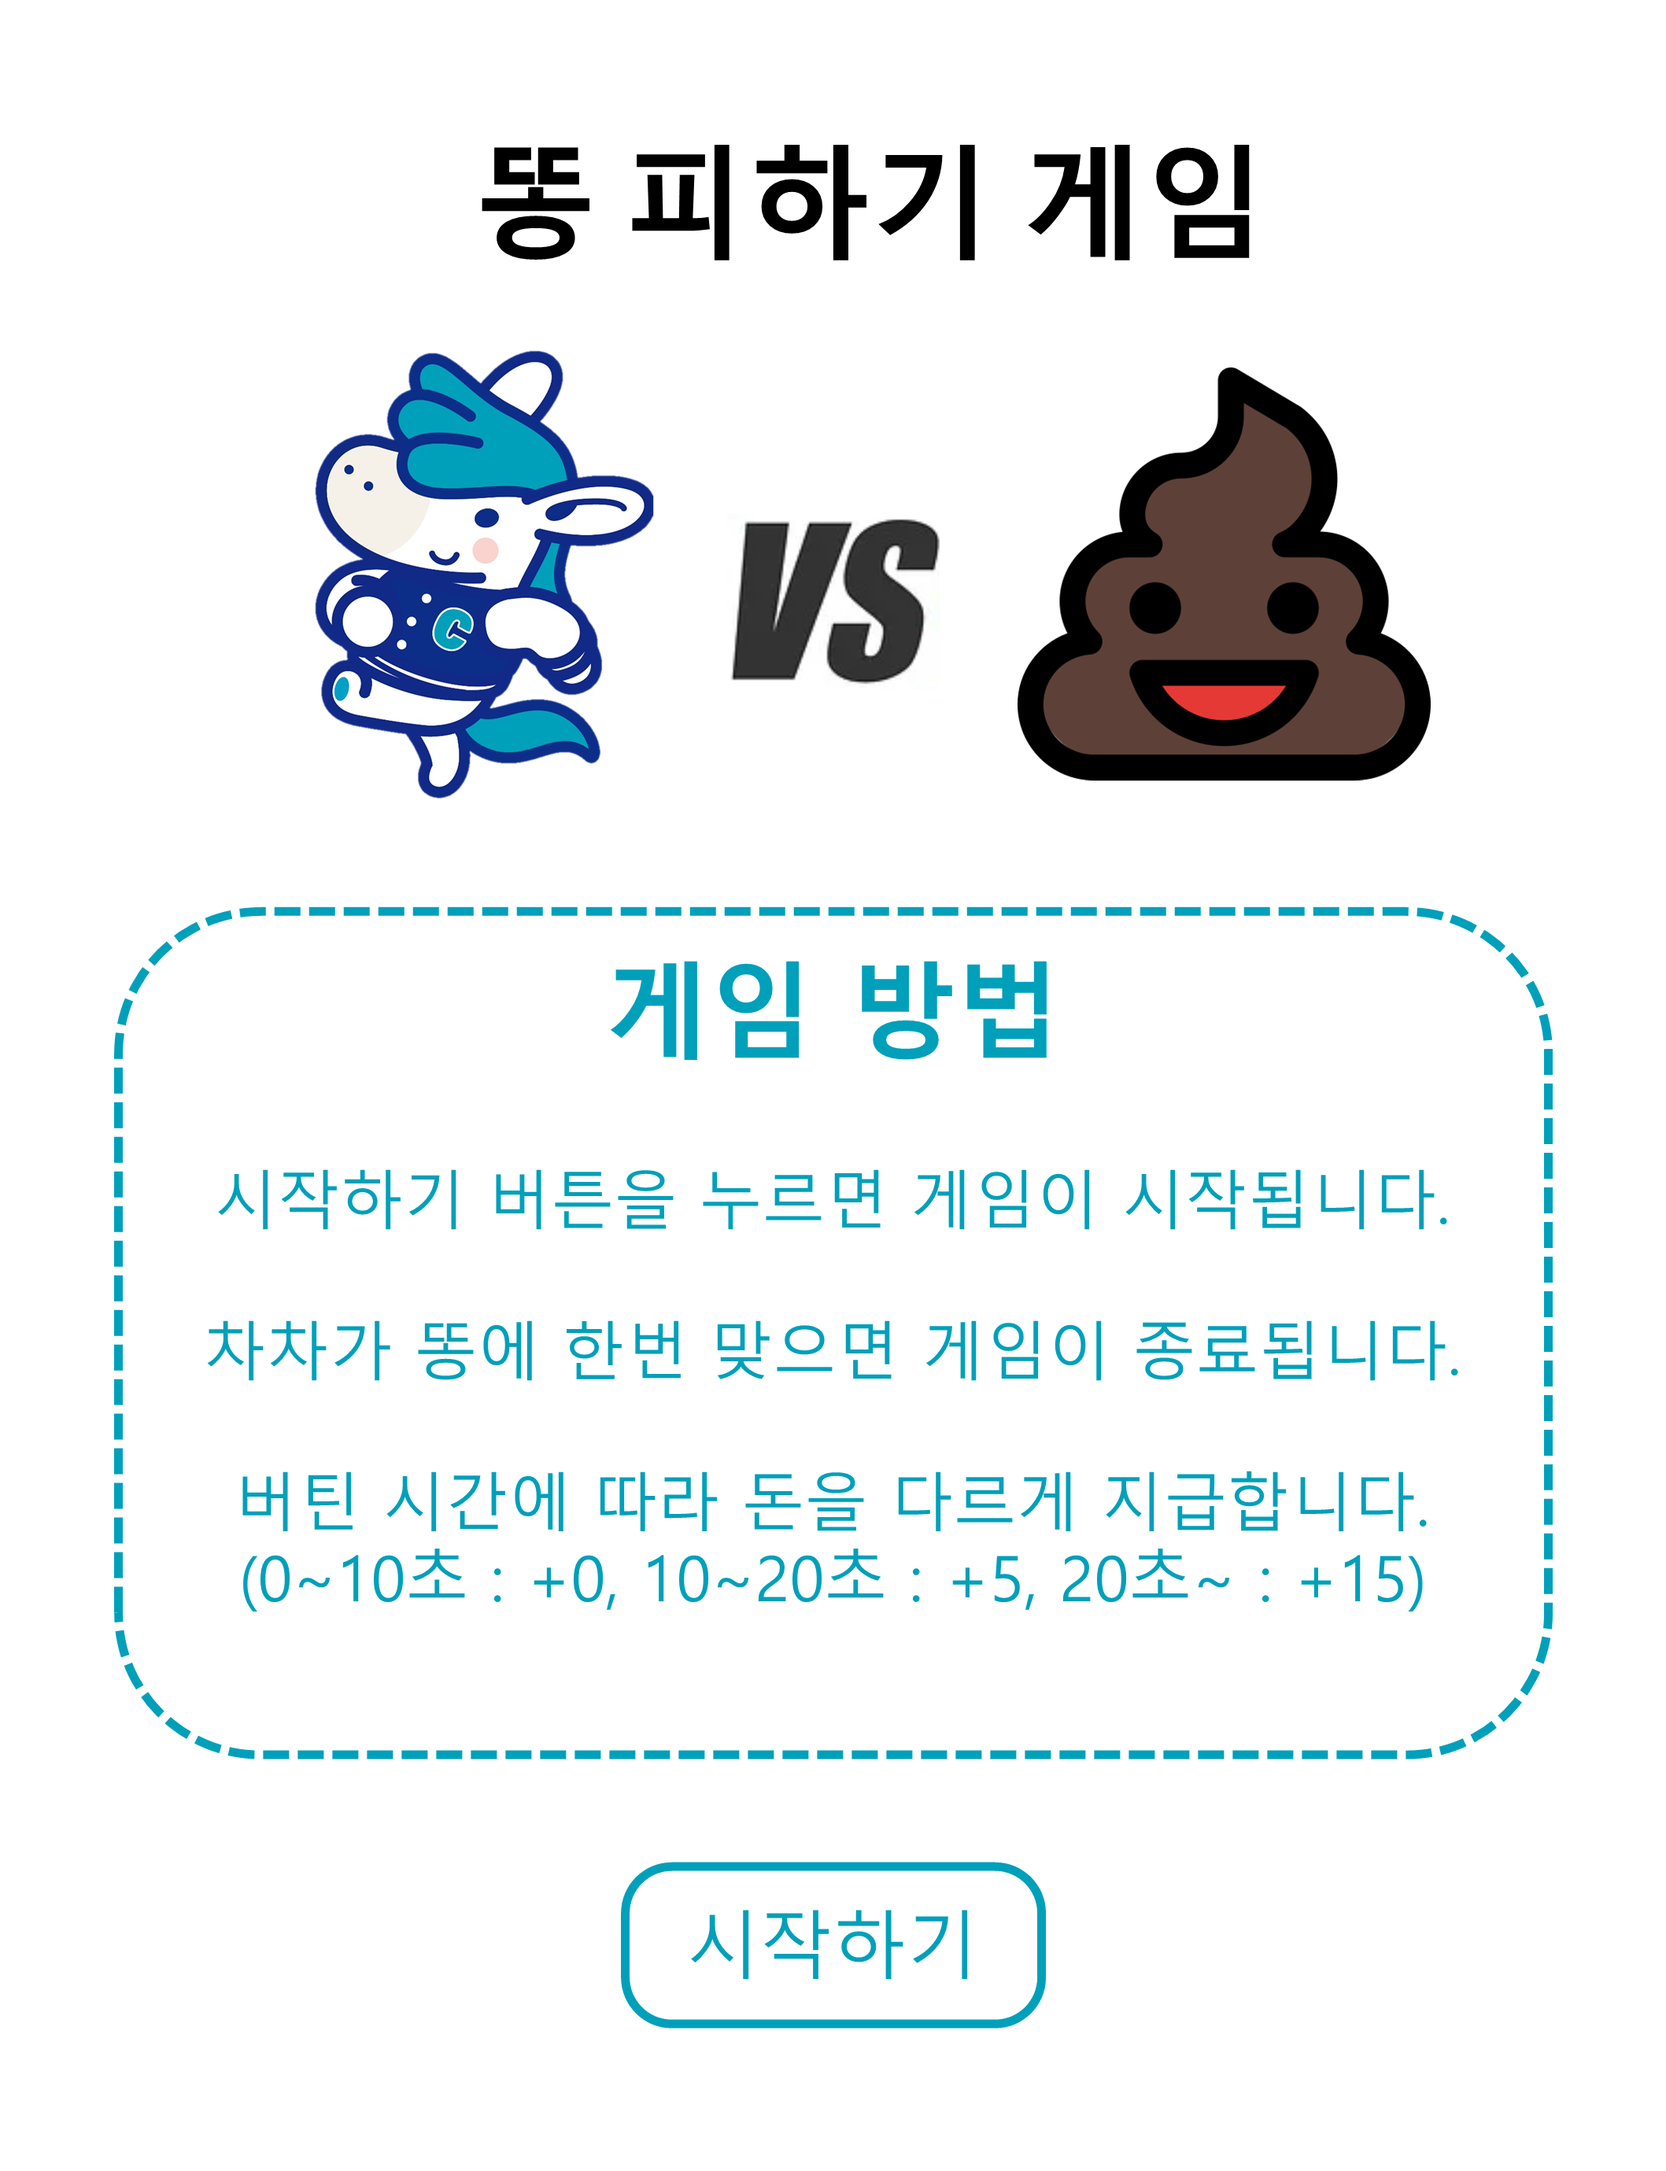
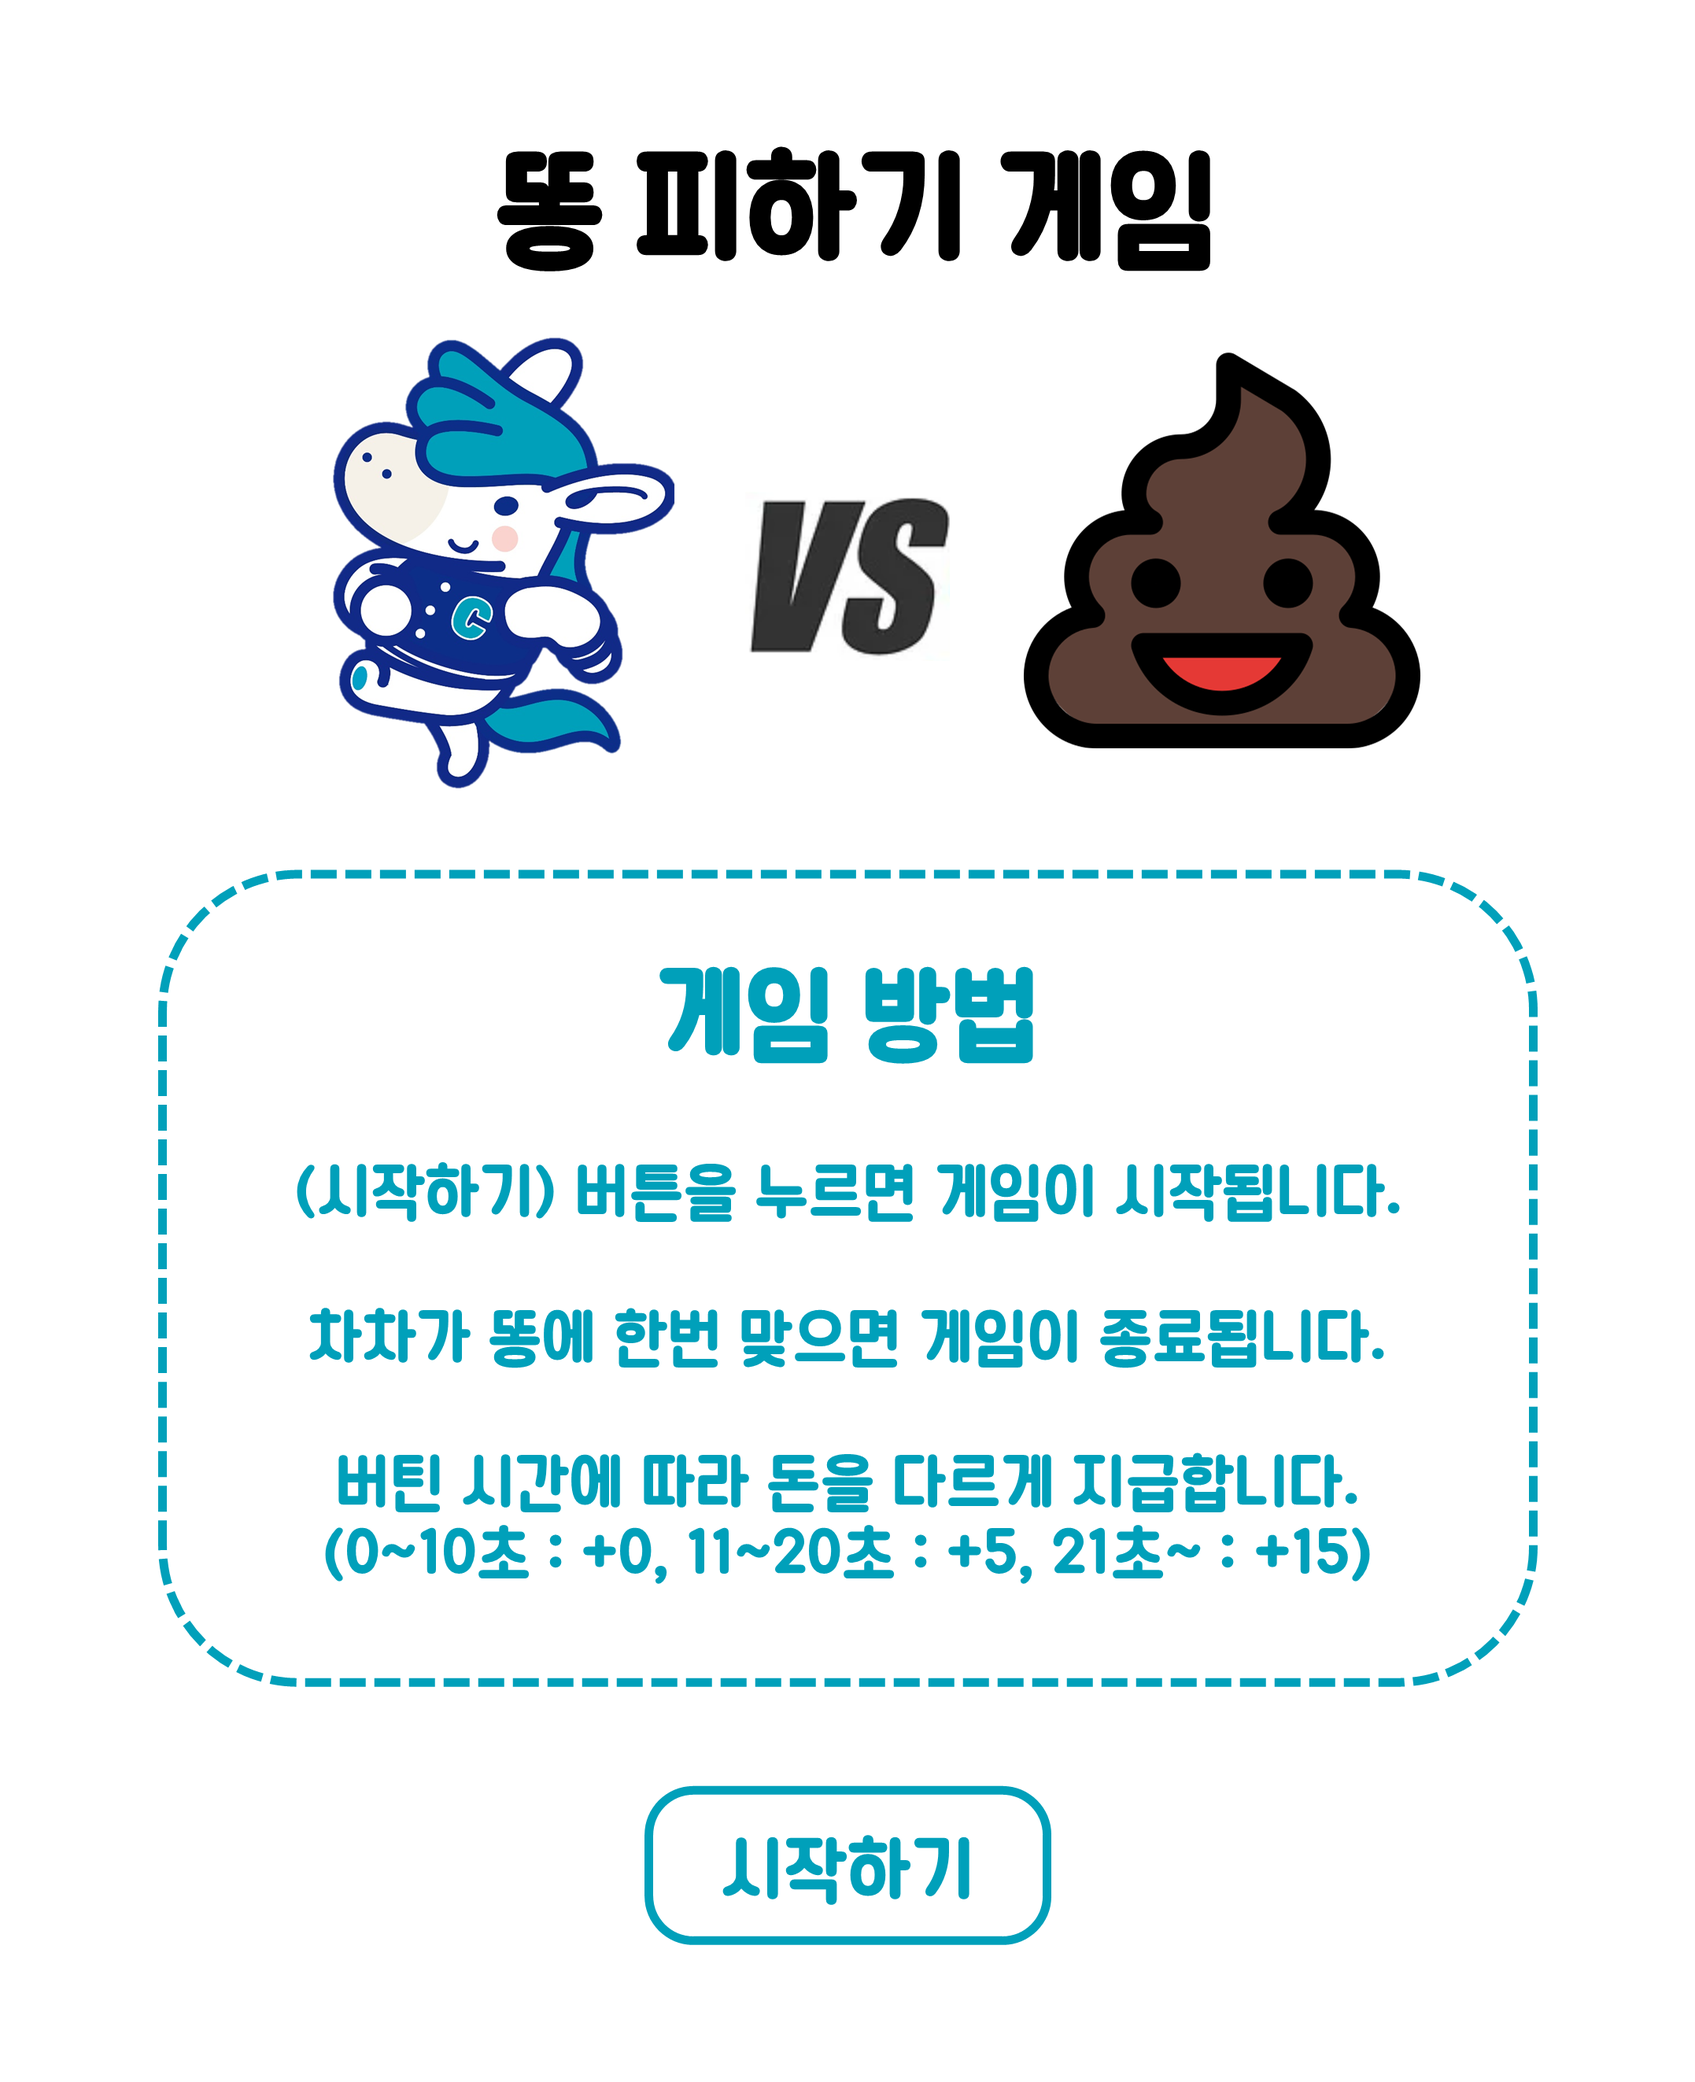
똥 피하기 게임 완성!

diff --git a/src/source/Parttime_avoidPoop.java b/src/source/Parttime_avoidPoop.java
@@ -17,14 +17,18 @@ import java.util.ArrayList;
 
 public class Parttime_avoidPoop extends JFrame {
     public static ArrayList<DroppingObject> poopList = new ArrayList<>();
+    UI UI;
     Player player;
     Avoider chacha = new Avoider();
     OnPlayingScreen playingScreen = new OnPlayingScreen(chacha);
     ProducingObject producingPoopThread = new ProducingObject(playingScreen, chacha);
-    DroppingThread droppingThread = new DroppingThread(playingScreen, chacha, player);
+    DroppingThread droppingThread;
 
-    Parttime_avoidPoop(Player player) {
-        this.player = player;
+
+    Parttime_avoidPoop(UI UI) {
+        this.UI = UI;
+        this.player = UI.getPlayer();
+        droppingThread = new DroppingThread(playingScreen, chacha, UI, player);
         setTitle("똥 피하기 게임");
         setDefaultCloseOperation(DISPOSE_ON_CLOSE);
         StartScreen startScreen = new StartScreen(this, playingScreen, producingPoopThread, droppingThread);
@@ -33,6 +37,7 @@ public class Parttime_avoidPoop extends JFrame {
         setLocationRelativeTo(null);
         setVisible(true);
     }
+
 
     // public static void main(String[] args) {
     //     new Parttime_avoidPoop();
@@ -159,16 +164,18 @@ class OnPlayingScreen extends JPanel { //플레이 화면
 class DroppingThread extends Thread {
 
 	OnPlayingScreen playingScreen;
+    UI UI;
     Player player;
 	Avoider chacha;
 	DroppingObject poopSample = new DroppingObject();
 	boolean vForCrushingCount;
     volatile boolean terminationFlag = true;
 	
-	DroppingThread(OnPlayingScreen playingScreen, Avoider chacha, Player player){
+	DroppingThread(OnPlayingScreen playingScreen, Avoider chacha, UI UI, Player player){
 		this.playingScreen = playingScreen;
 		this.chacha = chacha;
         this.player = player;
+        this.UI = UI;
 	}
 	
 	
@@ -207,8 +214,18 @@ class DroppingThread extends Thread {
 			
 		if(chacha.life ==0) {
 			long end = System.currentTimeMillis();
-            int aliveTime = (int)((end - StartScreen.start)/1000.0f); 
-	        JOptionPane.showMessageDialog(null, ""+ aliveTime+" 초 동안 버텼습니다.");
+            int aliveTime = (int)((end - StartScreen.start)/1000.0f);
+            
+            int earnedMoney;
+            if(aliveTime<=10) earnedMoney = 0;
+            else if(aliveTime<=20) earnedMoney = 5;
+            else earnedMoney = 15;
+            
+            player.setMoney(player.getMoney()+earnedMoney);
+
+            UI.statPanel.repaint(); // 액션 스탯 업데이트
+		    UI.belowPanel.repaint(); // 클릭 스탯 업데이트
+	        JOptionPane.showMessageDialog(null, ""+ aliveTime+" 초 동안 버텼습니다.\n축하합니다!! +"+ earnedMoney + "만큼 머니 스탯이 상승합니다!");
 		}
 	}       
 
@@ -250,7 +267,6 @@ class DroppingThread extends Thread {
 	
     public void stopThread() {
         Parttime_avoidPoop.poopList.clear();
-        player.setKnowledge(0);
         terminationFlag = false;
     }
 	

diff --git a/src/source/UI.java b/src/source/UI.java
@@ -49,12 +49,15 @@ public class UI extends JFrame {
 		statPanel.setBounds(0, 0, Main_WIDTH, 100); // ChaCha 패널과 크기를 맞춤
 		chaChaPanel.add(statPanel); // ChaCha 패널에 Stat 패널 추가
 
-		belowPanel = new Below();
+		belowPanel = new Below(this);
 		belowPanel.setBounds(0, 470, Main_WIDTH, Main_HEIGHT);
 		chaChaPanel.add(belowPanel);
 
 		setVisible(true);
 		setDefaultCloseOperation(EXIT_ON_CLOSE);
+	}
+	public Player getPlayer(){
+		return player;
 	}
 
 	public void clickCheck() {
@@ -292,6 +295,7 @@ public class UI extends JFrame {
 
 	class Below extends JPanel {
 		JButton studyButton, workButton, sleepButton, eatButton, playButton;
+		UI UI;
 		
 		// 차차 액션 아이콘 불러오기
 		ImageIcon studyIcon = new ImageIcon("src/img/study.png");
@@ -300,7 +304,8 @@ public class UI extends JFrame {
 		ImageIcon eatIcon = new ImageIcon("src/img/eat.png");
 		ImageIcon playIcon = new ImageIcon("src/img/play.png");
 
-		public Below() {
+		public Below(UI UI) {
+			this.UI = UI;
 			setLayout(null);
 			
 			//차차 버튼 불러오기
@@ -318,9 +323,9 @@ public class UI extends JFrame {
 			});
 			workButton.addActionListener(e -> {
 				// player.setMoney(player.getMoney() + 20);
-				// clickCheck();
 
-				new Parttime_avoidPoop(player);
+				new Parttime_avoidPoop(UI);
+				clickCheck();
 			});
 			sleepButton.addActionListener(e -> {
 				player.setHappiness(player.getHappiness() + 15);
